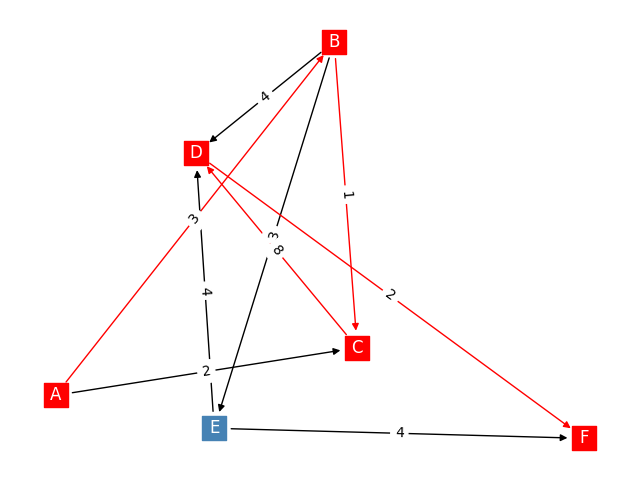
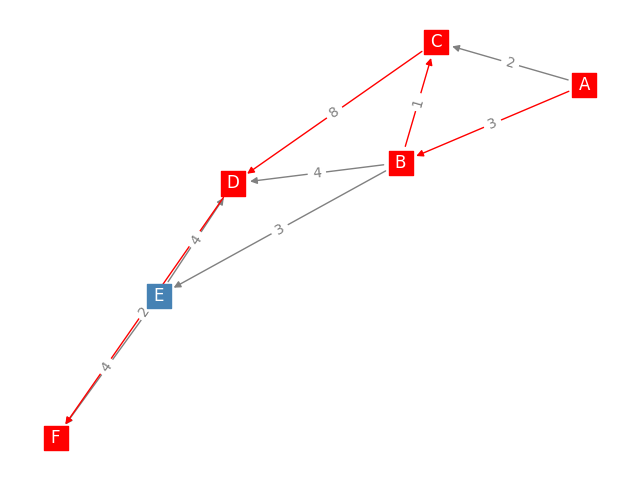
Add TODO in comments

diff --git a/dag_draft_v02.py b/dag_draft_v02.py
@@ -65,9 +65,9 @@ print(f"The longest path is {path} with a length of {length}")
 print(f"The edges of the longest path is {edges_path}")
 
 # Formatting
-pos = nx.spring_layout(G)
+pos = nx.spring_layout(G)  # layout options: spring, spectral, planar, random, etc.
 node_col = ['red' if node in path else 'steelblue' for node in G.nodes()]
-edge_colors = ['red' if edge in edges_path else 'black' for edge in G.edges()]
+edge_colors = ['red' if edge in edges_path else 'grey' for edge in G.edges()]
 
 
 # Draw DAG (w/o weight labels)
@@ -76,13 +76,7 @@ nx.draw(G, pos, with_labels=True, font_color='white', edge_color=edge_colors,
 
 # Draw the weight labels
 weight_labels = nx.get_edge_attributes(G, 'weight')
-nx.draw_networkx_edge_labels(G, pos, edge_labels=weight_labels)
-
-# Plot the graph in various ways
-# nx.draw_spring(G, with_labels=True)
-# nx.draw_spectral(G, with_labels=True)
-# nx.draw_planar(G, with_labels=True)
-# nx.draw_random(G, with_labels=True)
+nx.draw_networkx_edge_labels(G, pos, edge_labels=weight_labels, font_color='grey')
 
 # If you want an image file as well as a user interface window,
 # use pyplot.savefig before pyplot.show
